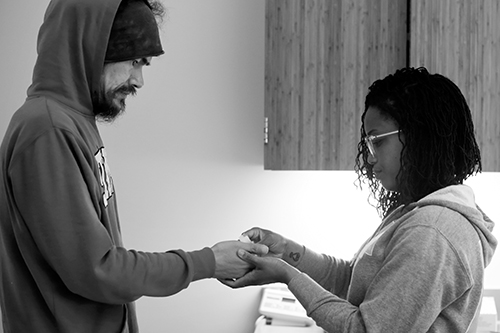
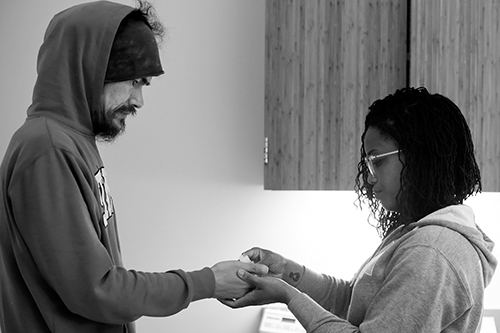
made all portrait thumbnails same size

diff --git a/templates/photos.html b/templates/photos.html
@@ -31,27 +31,27 @@
 			<ul class="gridder gridder-1">
 				
 				<li class="gridder-list" data-griddercontent="#gridder-content-0">
-					<img src="../static/images/portraits/01.jpg" class="img-responsive">
+					<img src="../static/images/portraits/01-2.jpg" class="img-responsive">
 				</li>
 
 				<li class="gridder-list" data-griddercontent="#gridder-content-1">
-					<img src="../static/images/portraits/02.jpg" class="img-responsive">
+					<img src="../static/images/portraits/02-2.jpg" class="img-responsive">
 				</li>
 
 				<li class="gridder-list" data-griddercontent="#gridder-content-2">
-					<img src="../static/images/portraits/03.jpg" class="img-responsive">
+					<img src="../static/images/portraits/03-2.jpg" class="img-responsive">
 				</li>
 
 				<li class="gridder-list" data-griddercontent="#gridder-content-3">
-					<img src="../static/images/portraits/07.jpg" class="img-responsive">
+					<img src="../static/images/portraits/07-2.jpg" class="img-responsive">
 				</li>
 
 				<li class="gridder-list" data-griddercontent="#gridder-content-4">
-					<img src="../static/images/portraits/05.jpg" class="img-responsive">
+					<img src="../static/images/portraits/05-2.jpg" class="img-responsive">
 				</li>
 
 				<li class="gridder-list" data-griddercontent="#gridder-content-5">
-					<img src="../static/images/portraits/06.jpg" class="img-responsive">
+					<img src="../static/images/portraits/06-2.jpg" class="img-responsive">
 				</li>
 
 				<li class="gridder-list" data-griddercontent="#gridder-content-7">
@@ -67,15 +67,15 @@
 				</li>
 
 				<li class="gridder-list" data-griddercontent="#gridder-content-10">
-					<img src="../static/images/portraits/11.jpg" class="img-responsive">
+					<img src="../static/images/portraits/11-2.jpg" class="img-responsive">
 				</li>
 
 				<li class="gridder-list" data-griddercontent="#gridder-content-11">
-					<img src="../static/images/portraits/12.jpg" class="img-responsive">
+					<img src="../static/images/portraits/12-2.jpg" class="img-responsive">
 				</li>
 
 				<li class="gridder-list" data-griddercontent="#gridder-content-13">
-					<img src="../static/images/portraits/14.jpg" class="img-responsive">
+					<img src="../static/images/portraits/14-2.jpg" class="img-responsive">
 				</li>
 
 			</ul>
